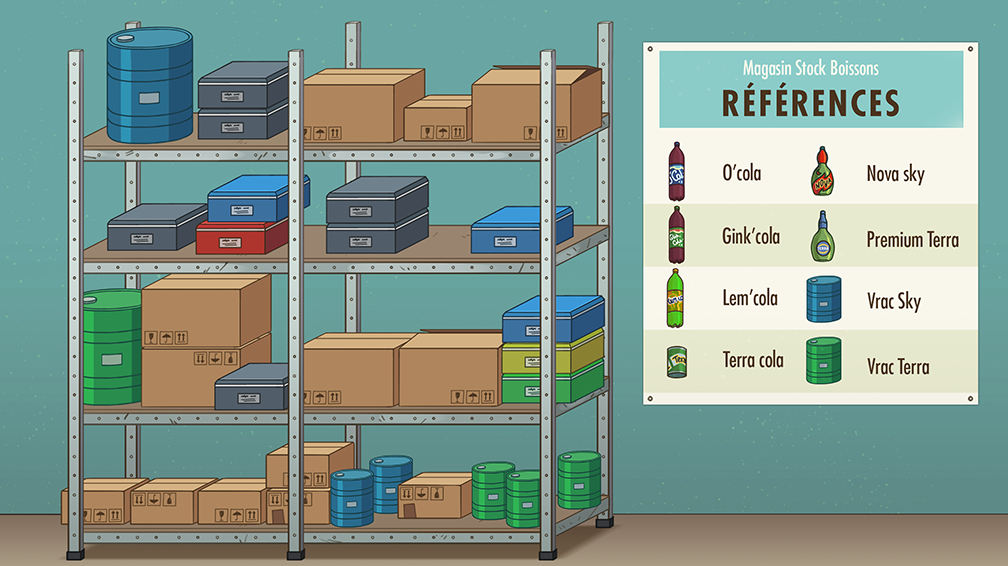
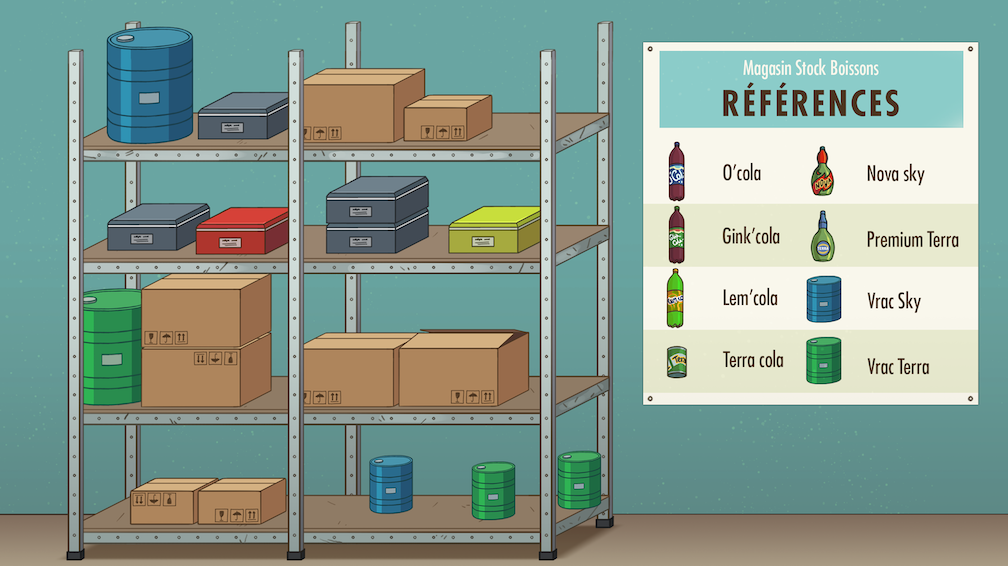
Change l'étagère de l'inventaire pour n'afficher que 11 contenants

diff --git a/src/situations/inventaire/data/stock.js b/src/situations/inventaire/data/stock.js
@@ -15,7 +15,7 @@ const couleurs = {
 
 const contenants = [
   { id: '0', idContenu: '0', type: 'ContenantVrac', forme: 'grandBaril', quantite: 25, posX: 105, posY: 365, imageOuvert: require('inventaire/assets/vrac-sky-25.png'), couleur: couleurs.bleu },
-  { id: '2', idContenu: '3', type: 'ContenantUnitaire', forme: 'caisse', quantite: 8, posX: 353, posY: 293, imageOuvert: require('inventaire/assets/caisse-2.png'), couleur: couleurs.noir },
+  { id: '2', idContenu: '3', type: 'ContenantUnitaire', forme: 'caisse', quantite: 8, posX: 353, posY: 377, imageOuvert: require('inventaire/assets/caisse-2.png'), couleur: couleurs.noir },
   { id: '3', idContenu: '4', type: 'ContenantUnitaire', forme: 'grandCarton', quantite: 4, posX: 615, posY: 387, imageOuvert: require('inventaire/assets/gros-carton-1.png'), couleur: couleurs.marron },
   { id: '4', idContenu: '5', type: 'ContenantUnitaire', forme: 'petitCarton', quantite: 3, posX: 911, posY: 383, imageOuvert: require('inventaire/assets/petit-carton-1.png'), couleur: couleurs.marron },
 
@@ -23,13 +23,13 @@ const contenants = [
   { id: '7', idContenu: '6', type: 'ContenantUnitaire', forme: 'caisse', quantite: 3, posX: 346, posY: 690, imageOuvert: require('inventaire/assets/caisse-5.png'), couleur: couleurs.rouge },
   { id: '9', idContenu: '6', type: 'ContenantUnitaire', forme: 'caisse', quantite: 1, posX: 701, posY: 686, imageOuvert: require('inventaire/assets/caisse-6.png'), couleur: couleurs.noir },
   { id: '10', idContenu: '3', type: 'ContenantUnitaire', forme: 'caisse', quantite: 5, posX: 701, posY: 605, imageOuvert: require('inventaire/assets/caisse-7.png'), couleur: couleurs.noir },
+  { id: '19', idContenu: '2', type: 'ContenantUnitaire', forme: 'caisse', quantite: 1, posX: 1033, posY: 686, imageOuvert: require('inventaire/assets/caisse-11.png'), couleur: couleurs.jaune },
 
   { id: '12', idContenu: '1', type: 'ContenantVrac', forme: 'grandBaril', quantite: 33, posX: 4, posY: 1075, imageOuvert: require('inventaire/assets/vrac-terra-33.png'), couleur: couleurs.vert },
   { id: '13', idContenu: '7', type: 'ContenantUnitaire', forme: 'grandCarton', quantite: 3, posX: 201, posY: 1100, imageOuvert: require('inventaire/assets/gros-carton-3.png'), couleur: couleurs.marron },
   { id: '14', idContenu: '5', type: 'ContenantUnitaire', forme: 'grandCarton', quantite: 4, posX: 201, posY: 940, imageOuvert: require('inventaire/assets/gros-carton-4.png'), couleur: couleurs.marron },
   { id: '16', idContenu: '5', type: 'ContenantUnitaire', forme: 'grandCarton', quantite: 2, posX: 616, posY: 1100, imageOuvert: require('inventaire/assets/gros-carton-2.png'), couleur: couleurs.marron },
   { id: '17', idContenu: '7', type: 'ContenantUnitaire', forme: 'grandCarton', quantite: 2, posX: 901, posY: 1100, imageOuvert: require('inventaire/assets/gros-carton-5.png'), couleur: couleurs.marron },
-  { id: '19', idContenu: '2', type: 'ContenantUnitaire', forme: 'caisse', quantite: 1, posX: 1176, posY: 1010, imageOuvert: require('inventaire/assets/caisse-11.png'), couleur: couleurs.jaune },
 
   { id: '21', idContenu: '4', type: 'ContenantUnitaire', forme: 'petitCarton', quantite: 1, posX: 171, posY: 1420, imageOuvert: require('inventaire/assets/petit-carton-3.png'), couleur: couleurs.marron },
   { id: '22', idContenu: '5', type: 'ContenantUnitaire', forme: 'petitCarton', quantite: 4, posX: 351, posY: 1420, imageOuvert: require('inventaire/assets/petit-carton-4.png'), couleur: couleurs.marron },
